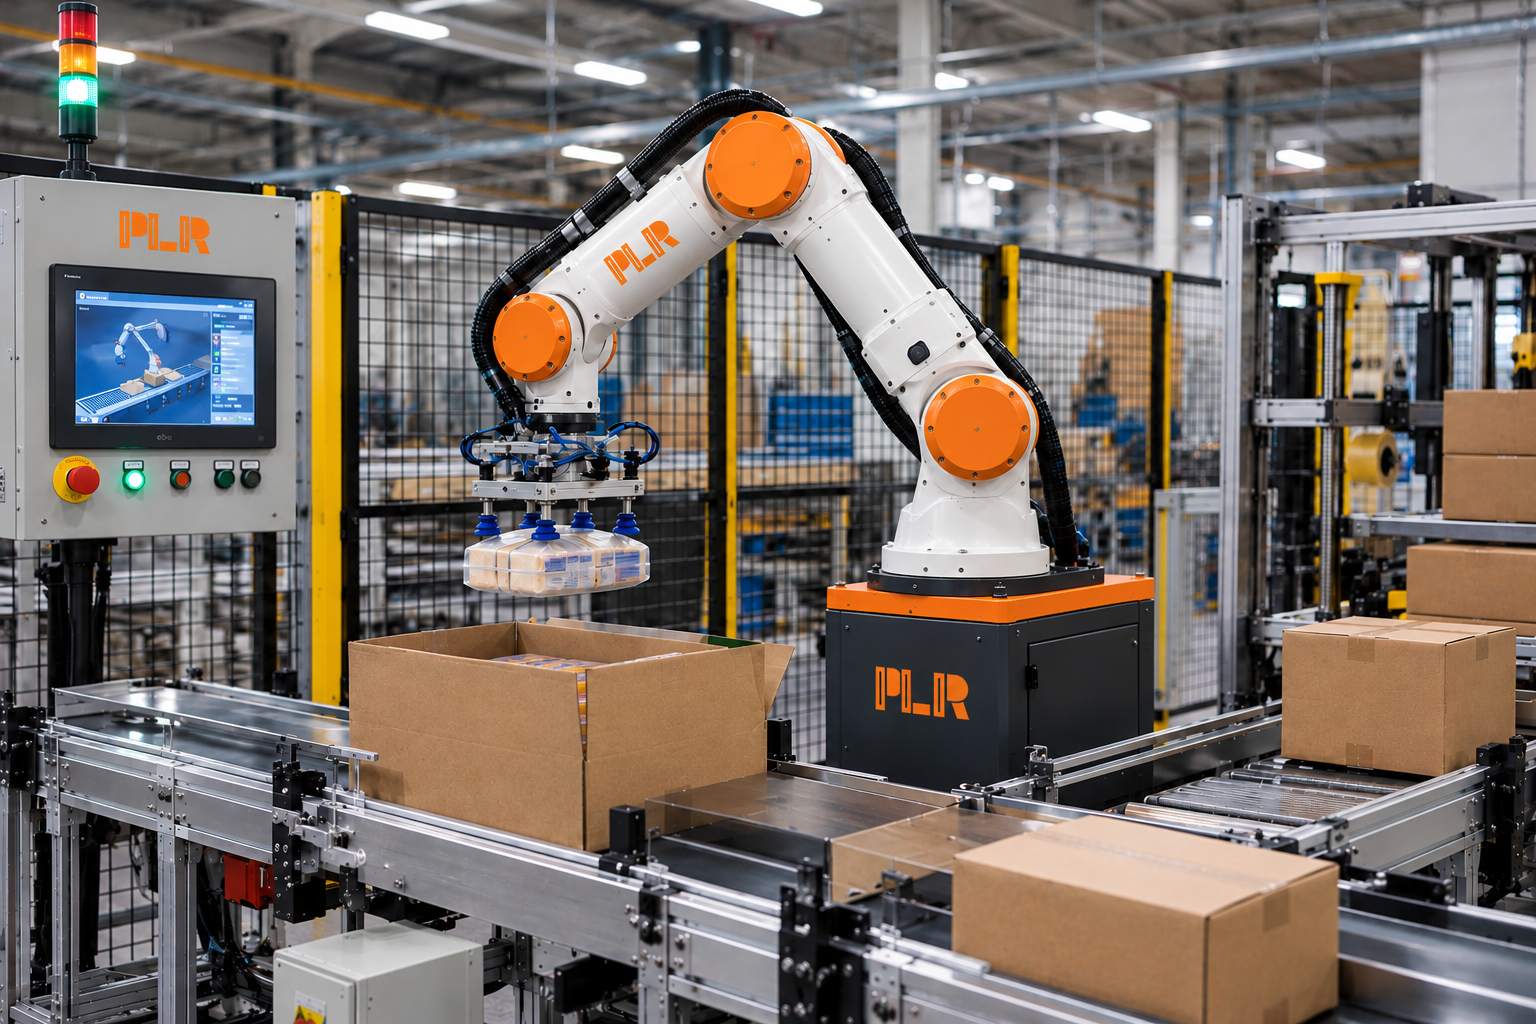
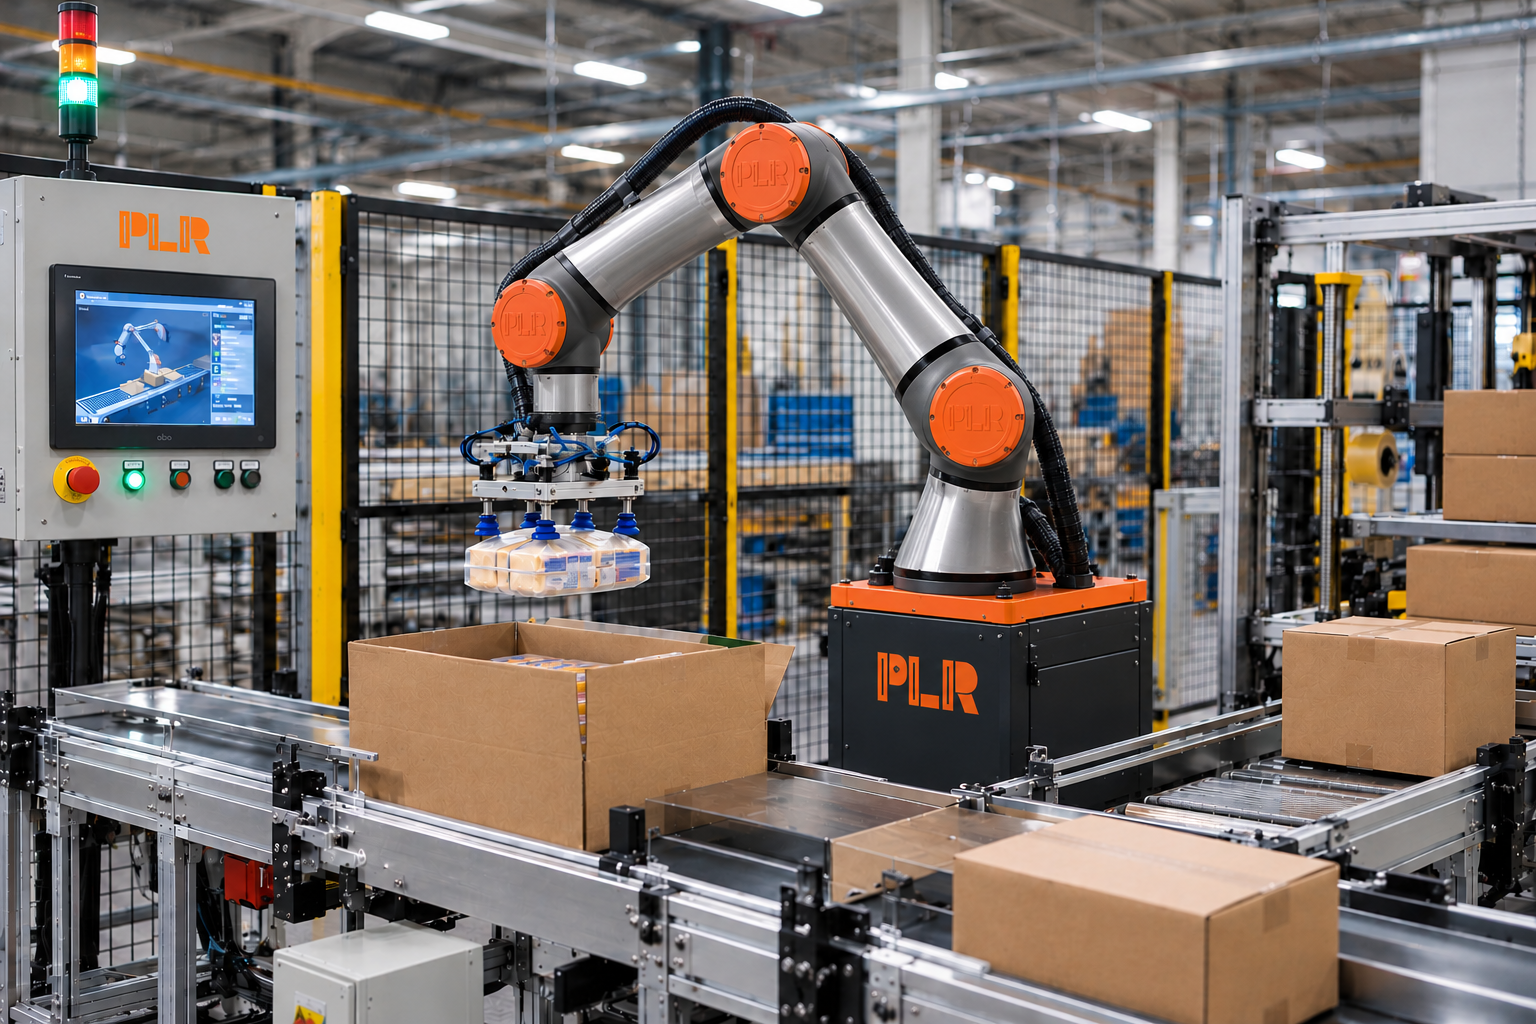
Match application images to cards

diff --git a/src/pages/Applications.jsx b/src/pages/Applications.jsx
@@ -15,7 +15,9 @@ export const applications = [
     slug: 'assembly-automation',
     title: 'Assembly Automation',
     short: 'Automate assembly tasks with accurate and consistent part placement for a wide range of products.',
-    image: '/photos/Application%20Images/assembly.png',
+    // The file named assembly.png depicts CNC machine tending; use the
+    // application-neutral gripper image for the assembly card instead.
+    image: '/photos/Application%20Images/customautomation.png',
     benefits: ['Consistent assembly quality', 'Reliable production process', 'Flexible for different products'],
   },
   {
